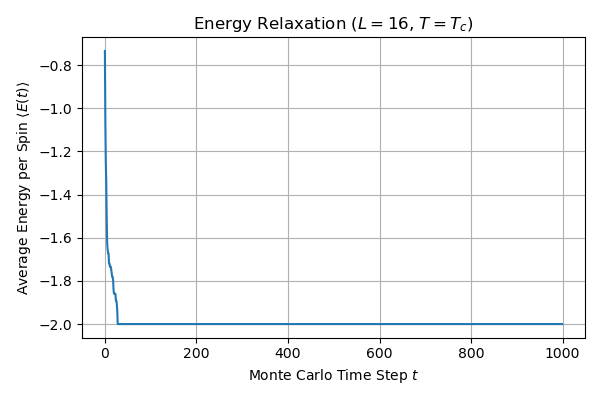
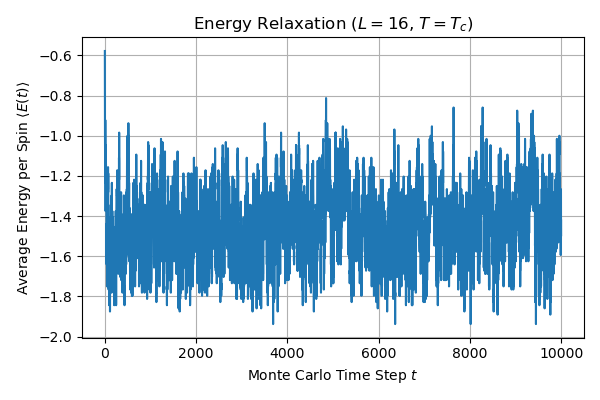
a

diff --git a/code/ising_relaxation.py b/code/ising_relaxation.py
@@ -2,8 +2,8 @@ import numpy as np
 import matplotlib.pyplot as plt
 
 L = 16
-T = 0.5 * np.log(1 + np.sqrt(2))  # 临界温度
-n_steps = 1000
+T = 1/(0.5 * np.log(1 + np.sqrt(2)) ) # 临界温度
+n_steps = 2000000
 J = 1
 
 def init_lattice(L):
@@ -35,7 +35,7 @@ lattice = init_lattice(L)
 for t in range(n_steps):
     lattice = metropolis_step(lattice, T)
     E = calc_energy(lattice)
-    energies.append(E / (L * L))
+    energies.append(E/L**2)  # 归一化能量
 
 plt.figure(figsize=(6,4))
 plt.plot(energies)

diff --git a/README.md b/README.md
@@ -336,7 +336,7 @@ $$T_c = \frac{1}{2}\ln(1 + \sqrt{2})$$
 
 进行演化。计算系统的平均能量 $\langle E(t) \rangle$。其中 $t$ 是蒙卡时间步。
 
-<!-- 1. 对 $L = 16$ 的系统，画出能量随着时间的变化关系。粗略探究需要多长时间，系统能量弛豫到稳态 $\langle E(\infty) \rangle$。（2分） -->
+1. 对 $L = 16$ 的系统，画出能量随着时间的变化关系。粗略探究需要多长时间，系统能量弛豫到稳态 $\langle E(\infty) \rangle$。（2分）
 
 
 ### 问题1：$L=16$ 时的能量演化过程
